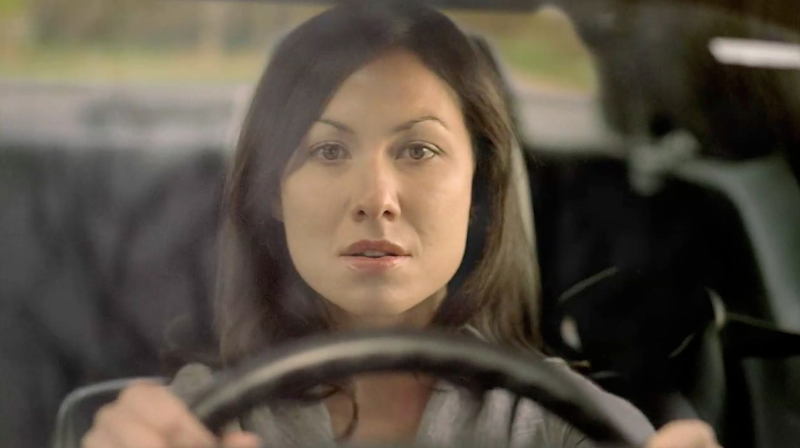
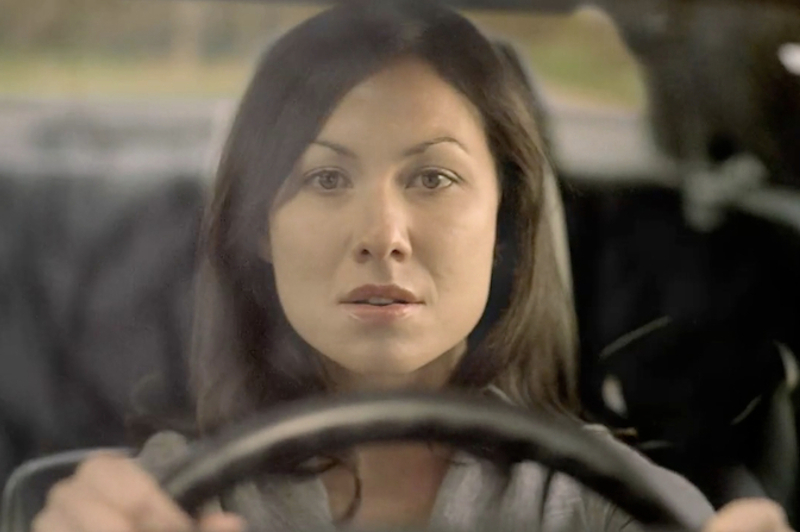
Add new photos and update styling

diff --git a/content/production-photos.html b/content/production-photos.html
@@ -4,11 +4,11 @@ title: Production Photos
 
 <script type="text/javascript">
   var urls = [
-    {image: '/images/vog_1_800.jpg',          thumb: '/images/vog_1_125.jpg', align: 'horizontal'},
+    {image: '/images/vog_1_800.jpg',          thumb: '/images/vog_1_125.jpg',         align: 'horizontal'},
     {image: '/images/fall_in_love1_800.jpg',  thumb: '/images/fall_in_love1_125.jpg', align: 'horizontal'},
     {image: '/images/fall_in_love2_800.jpg',  thumb: '/images/fall_in_love2_125.jpg', align: 'horizontal'},
-    {image: '/images/vog_2_800.jpg',          thumb: '/images/vog_2_125.jpg', align: 'horizontal'},
-    {image: '/images/vog_3_800.jpg',          thumb: '/images/vog_3_125.jpg', align: 'horizontal'}
+    {image: '/images/vog_2_800.jpg',          thumb: '/images/vog_2_125.jpg',         align: 'horizontal'},
+    {image: '/images/vog_3_800.jpg',          thumb: '/images/vog_3_125.jpg',         align: 'horizontal'}
   ]
 </script>
 

diff --git a/content/photos.html b/content/photos.html
@@ -4,9 +4,10 @@ title: Photos
 <script type="text/javascript">
   var urls = [
     {image: '/images/rosa_orange_800.jpg', thumb: '/images/rosa_orange_125.jpg', align: 'horizontal'},
-    {image: '/images/rosa_smile_600.jpg',  thumb:'/images/rosa_smile_125.jpg', align: 'vertical'},
-    {image: '/images/rosa_gray_800.jpg',   thumb: '/images/rosa_gray_125.jpg', align: 'horizontal'},
-    {image: '/images/rosa_blue_600.jpg',   thumb: '/images/rosa_blue_125.jpg', align: 'vertical'}
+    {image: '/images/rosa_smile_600.jpg',  thumb:'/images/rosa_smile_125.jpg',   align: 'vertical'},
+    {image: '/images/rosa_gray_800.jpg',   thumb: '/images/rosa_gray_125.jpg',   align: 'horizontal'},
+    {image: '/images/rosa_blue_600.jpg',   thumb: '/images/rosa_blue_125.jpg',   align: 'vertical'},
+    {image: '/images/rosa_purple2_800.jpg',   thumb: '/images/rosa_purple2_125.jpg',   align: 'horizontal'}
   ]
 </script>
 

diff --git a/content/stylesheets/photos_styles.css b/content/stylesheets/photos_styles.css
@@ -49,13 +49,13 @@ a:visited {
 
 #thumbnails li {
 	float: left;
-	margin: 0 5px 10px 0;
+	margin: 0 5px 9px 0px;
 }
 
 ul img {
   vertical-align: middle;
-  height: 100px;
-  width: 100px;
+  height: 95px;
+  width: 95px;
   cursor: pointer;
 }
 
@@ -64,12 +64,13 @@ ul img {
 //}
 
 #front {
-	width: 770px;
   text-align: center;
-  vertical-align: middle;
+	width: 770px;
+  height: 513px;
 	margin: 20px auto;
   padding: auto;
   float: left;
+  background-color: #e7e7e7;
 }
 
 #front img {
@@ -81,5 +82,5 @@ img.horizontal {
 }
 
 img.vertical {
-  height: 600px;
+  height: 513px;
 }
